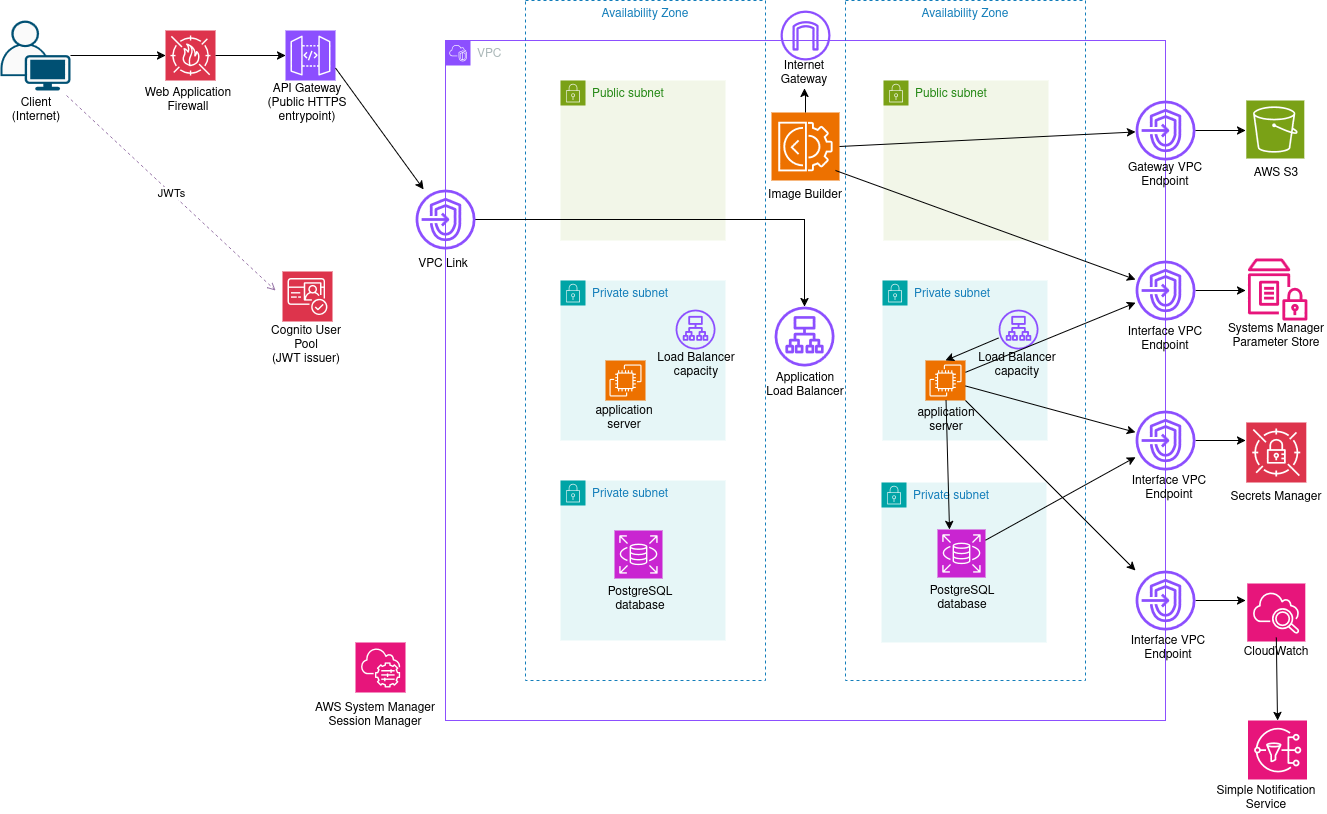
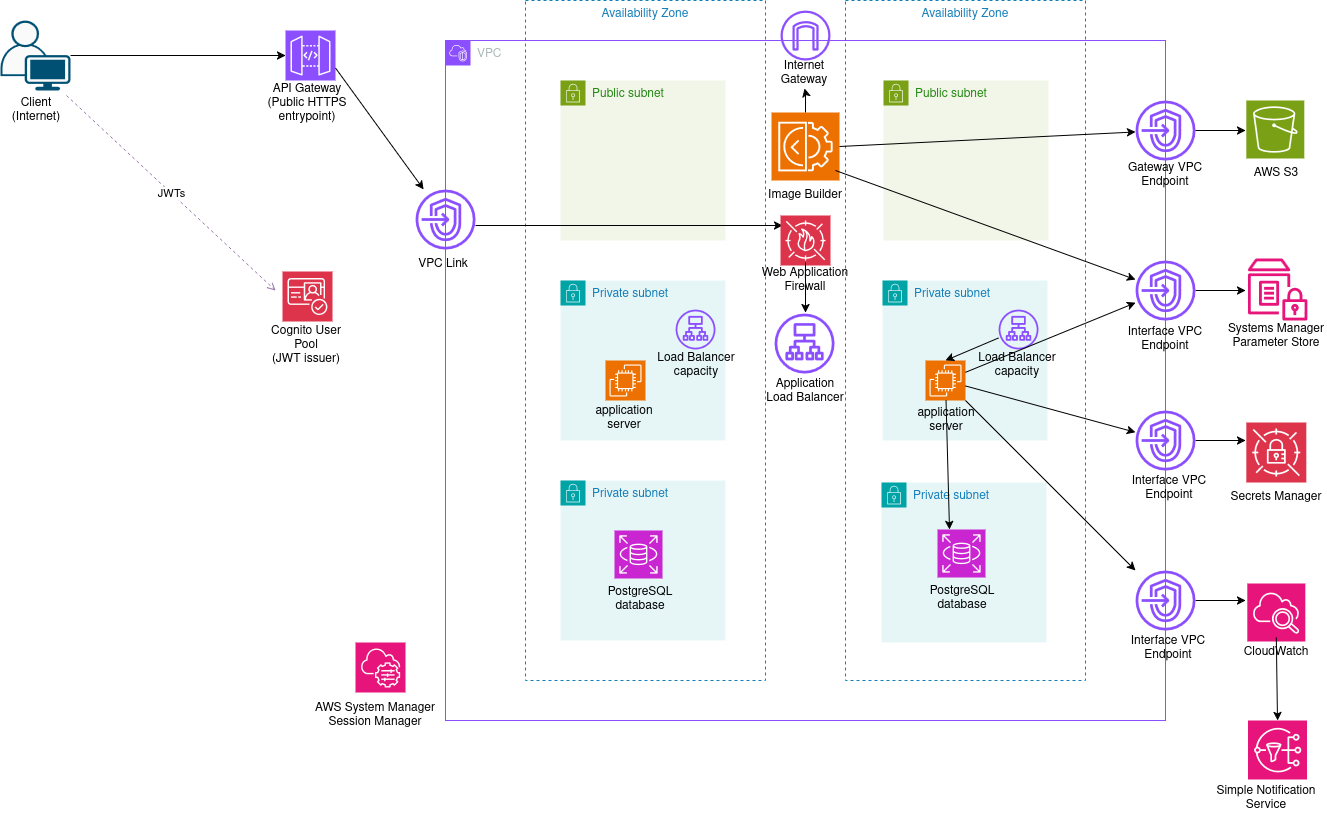
moved WAF to ALB for the 01-ec2-ami app

Changed region(s): [[0.587, 0.2457, 0.6488, 0.4914], [0.1236, 0.0307, 0.1854, 0.1536]]

diff --git a/01-ec2-ami/cdk/lib/api-stack.ts b/01-ec2-ami/cdk/lib/api-stack.ts
@@ -5,7 +5,6 @@ import * as elbv2 from "aws-cdk-lib/aws-elasticloadbalancingv2";
 import * as apigwv2 from "aws-cdk-lib/aws-apigatewayv2";
 import * as apigwv2Integrations from "aws-cdk-lib/aws-apigatewayv2-integrations";
 import * as apigwv2Authorizers from "aws-cdk-lib/aws-apigatewayv2-authorizers";
-import * as wafv2 from "aws-cdk-lib/aws-wafv2";
 import * as cognito from "aws-cdk-lib/aws-cognito";
 
 export interface ApiStackProps extends StackProps {
@@ -59,61 +58,6 @@ export class ApiStack extends Stack {
       methods: [apigwv2.HttpMethod.ANY],
       integration: albIntegration,
       authorizer: jwtAuthorizer,
-    });
-
-    // ---- WAF (Web ACL) ----
-    // Attach WAF to the API Gateway stage.
-    const webAcl = new wafv2.CfnWebACL(this, "OrdersWebAcl", {
-      scope: "REGIONAL",
-      defaultAction: { allow: {} },
-      visibilityConfig: {
-        cloudWatchMetricsEnabled: true,
-        metricName: "orders-webacl",
-        sampledRequestsEnabled: true,
-      },
-      rules: [
-        {
-          name: "AWSManagedCommon",
-          priority: 1,
-          overrideAction: { none: {} },
-          statement: {
-            managedRuleGroupStatement: {
-              vendorName: "AWS",
-              name: "AWSManagedRulesCommonRuleSet",
-            },
-          },
-          visibilityConfig: {
-            cloudWatchMetricsEnabled: true,
-            metricName: "aws-common",
-            sampledRequestsEnabled: true,
-          },
-        },
-        {
-          name: "RateLimit",
-          priority: 2,
-          action: { block: {} },
-          statement: {
-            rateBasedStatement: {
-              limit: 300, // requests per 5 minutes per IP
-              aggregateKeyType: "IP",
-            },
-          },
-          visibilityConfig: {
-            cloudWatchMetricsEnabled: true,
-            metricName: "rate-limit",
-            sampledRequestsEnabled: true,
-          },
-        },
-      ],
-    });
-
-    // Associate WAF WebACL with the API Gateway stage ARN
-    // HTTP API default stage is "$default" unless you create named stages
-    const stageArn = `arn:aws:apigateway:${this.region}::/apis/${this.httpApi.apiId}/stages/$default`;
-
-    new wafv2.CfnWebACLAssociation(this, "WebAclAssoc", {
-      resourceArn: stageArn,
-      webAclArn: webAcl.attrArn,
     });
   }
 }

diff --git a/01-ec2-ami/cdk/lib/alb-stack.ts b/01-ec2-ami/cdk/lib/alb-stack.ts
@@ -3,6 +3,7 @@ import { Stack, StackProps } from "aws-cdk-lib";
 import { Construct } from "constructs";
 import * as ec2 from "aws-cdk-lib/aws-ec2";
 import * as elbv2 from "aws-cdk-lib/aws-elasticloadbalancingv2";
+import * as wafv2 from "aws-cdk-lib/aws-wafv2";
 import type { OrdersAppConfig } from "./config";
 
 export interface AlbStackProps extends StackProps {
@@ -47,6 +48,57 @@ export class AlbStack extends Stack {
       port: 80,
       protocol: elbv2.ApplicationProtocol.HTTP,
       defaultTargetGroups: [this.targetGroup]
+    });
+
+    // ---- WAF (Web ACL) ----
+    // Attach WAF to the ALB.
+    const webAcl = new wafv2.CfnWebACL(this, "OrdersWebAcl", {
+      scope: "REGIONAL",
+      defaultAction: { allow: {} },
+      visibilityConfig: {
+        cloudWatchMetricsEnabled: true,
+        metricName: "orders-webacl",
+        sampledRequestsEnabled: true,
+      },
+      rules: [
+        {
+          name: "AWSManagedCommon",
+          priority: 1,
+          overrideAction: { none: {} },
+          statement: {
+            managedRuleGroupStatement: {
+              vendorName: "AWS",
+              name: "AWSManagedRulesCommonRuleSet",
+            },
+          },
+          visibilityConfig: {
+            cloudWatchMetricsEnabled: true,
+            metricName: "aws-common",
+            sampledRequestsEnabled: true,
+          },
+        },
+        {
+          name: "RateLimit",
+          priority: 2,
+          action: { block: {} },
+          statement: {
+            rateBasedStatement: {
+              limit: 300, // requests per 5 minutes per IP
+              aggregateKeyType: "IP",
+            },
+          },
+          visibilityConfig: {
+            cloudWatchMetricsEnabled: true,
+            metricName: "rate-limit",
+            sampledRequestsEnabled: true,
+          },
+        },
+      ],
+    });
+
+    new wafv2.CfnWebACLAssociation(this, "OrdersAlbWebAclAssociation", {
+      resourceArn: this.alb.loadBalancerArn,
+      webAclArn: webAcl.attrArn,
     });
 
     new cdk.CfnOutput(this, "AlbDnsName", { value: this.alb.loadBalancerDnsName });
